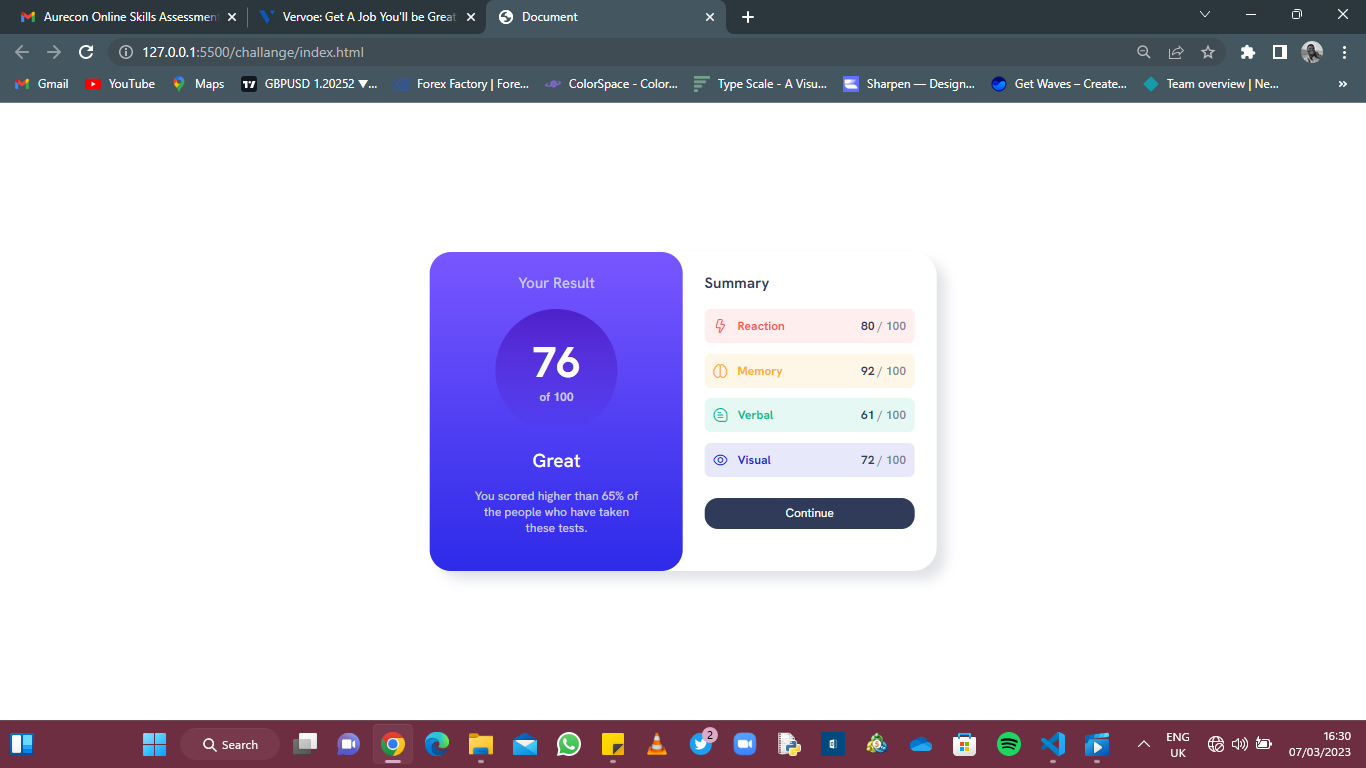
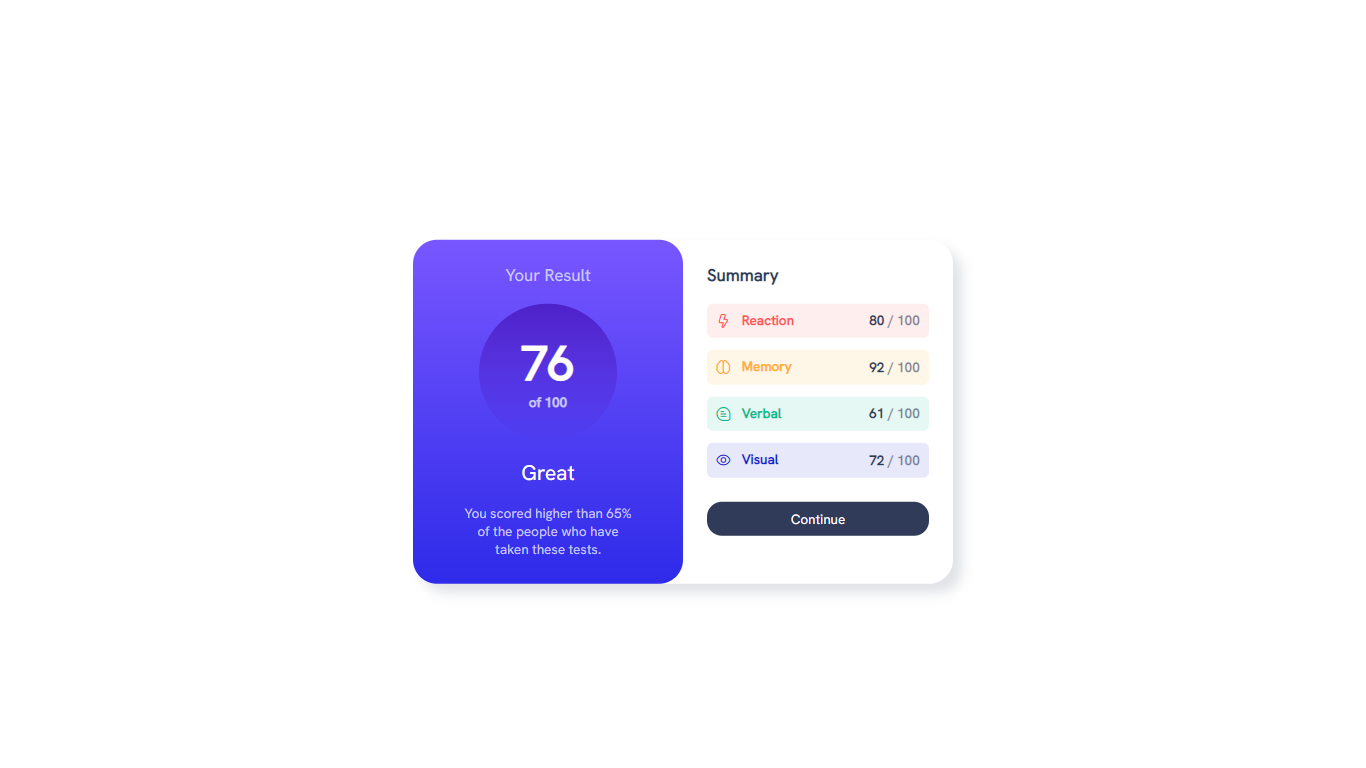
made teaks to media queries

diff --git a/index.css b/index.css
@@ -1,14 +1,17 @@
+HTML{
+    font-size:18px;
+}
 *{
     box-sizing:border-box;
 }
 
 body{
     margin:0;
-    font-size:18px;
+    /*font-size:18px;*/
 }
 body > div{
     display:flex;
-    width:42.22rem;
+    width:40rem;
     height:fit-content;
     position: relative;
     top:50vh;
@@ -126,8 +129,10 @@ body > div{
     width:100%;
     margin:0.889rem 0;
     padding:calc((40px - 1rem)/2);
-    border-radius:8px;
     align-items:center;
+    border:1px solid red;
+    border-image:linear-gradient(to right, hsl(241, 100%, 89%)4px, transparent 4px)0% 100% ;
+    border-radius:8px;
 }
 .box>div{
     flex-basis:auto;
@@ -228,11 +233,11 @@ a:active{
 }
 a:active >p{
     color:hsl(241, 100%, 89%);
-    transition:all 0.5s;
+    transition:all 5s;
 }
 
 
-@media(max-width:760px){
+@media(max-width:680px){
     body{
         font-size:16px;
     }
@@ -273,5 +278,10 @@ a:active >p{
     a{
         padding:calc((40px - 1rem)/2);
         margin:1.5rem 0;
+    }
+}
+@media(max-width:390px){
+    HTML{
+        font-size:14px;   
     }
 }
